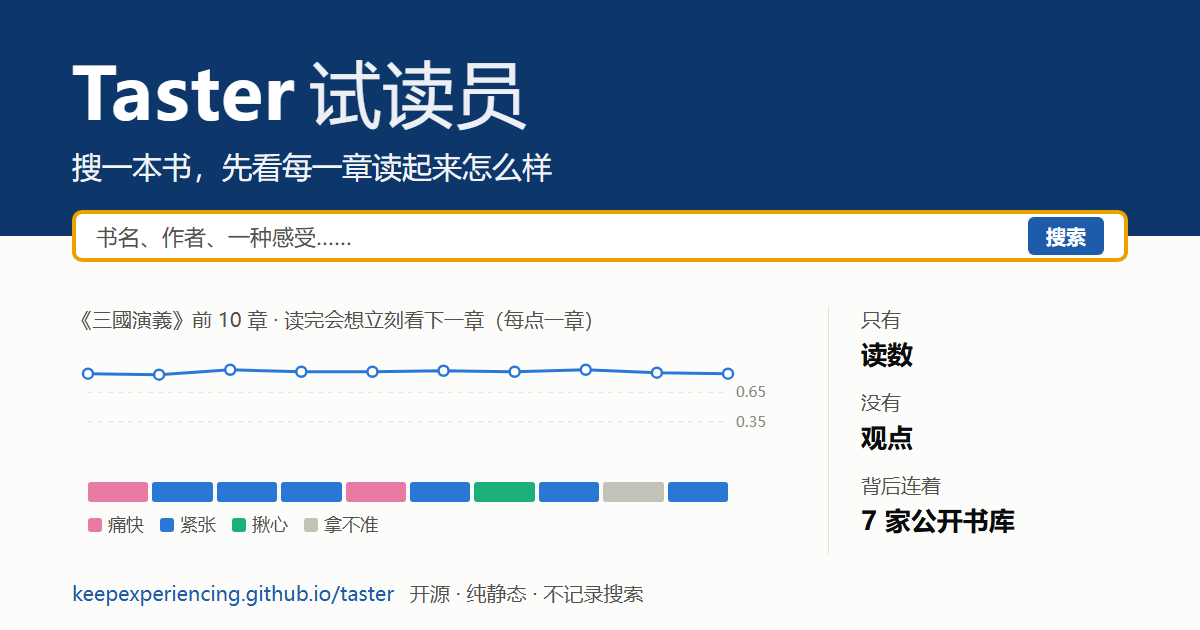
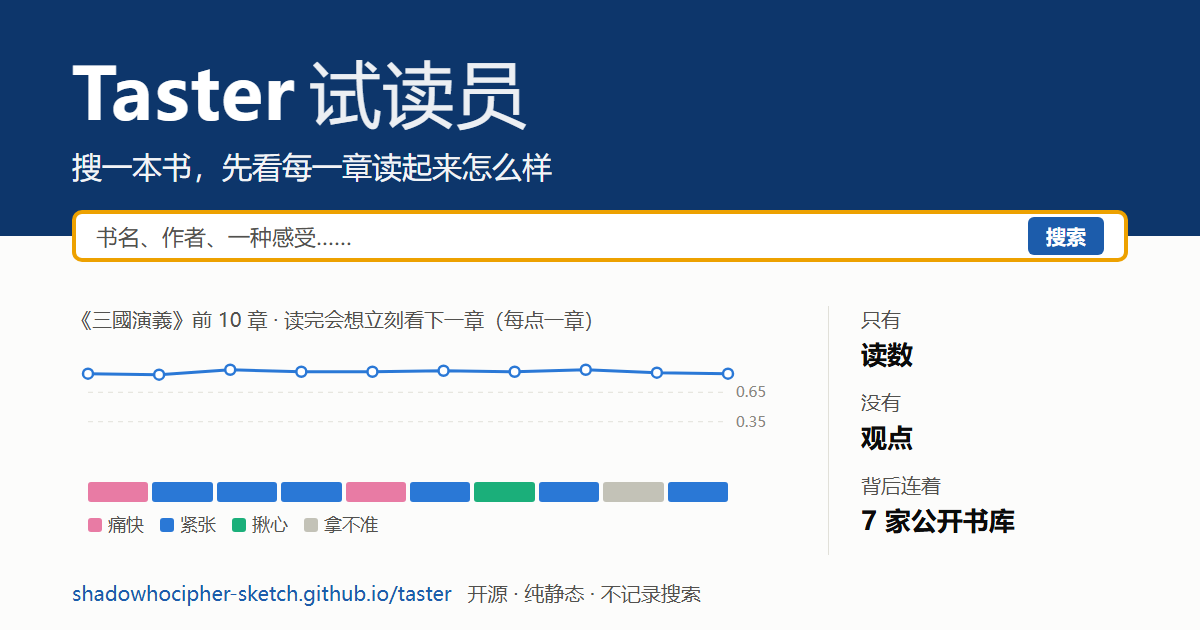
站点地址改到 shadowhocipher-sketch.github.io（github.io 转仓库后不跳转）

Changed region(s): [[0.0617, 0.9048, 0.5858, 0.9651]]

diff --git a/site/index.html b/site/index.html
@@ -9,14 +9,14 @@
 <meta name="referrer" content="strict-origin-when-cross-origin">
 <meta name="description" content="Taster 试读员：一次查多家公开书库；书架上的书每一章都有第三方判断模型的读数。只有读数，没有观点。">
 <title>Taster 试读员</title>
-<link rel="canonical" href="https://keepexperiencing.github.io/taster/">
+<link rel="canonical" href="https://shadowhocipher-sketch.github.io/taster/">
 <!-- 分享卡片：og.png 1200×630、favicon.svg 都放在 site/ 下，同源，CSP 的 img-src 'self' 已放行 -->
 <meta property="og:type" content="website">
 <meta property="og:site_name" content="Taster 试读员">
 <meta property="og:title" content="Taster 试读员">
 <meta property="og:description" content="一次查多家公开书库；书架上的书每一章都有第三方判断模型的读数。只有读数，没有观点。">
-<meta property="og:url" content="https://keepexperiencing.github.io/taster/">
-<meta property="og:image" content="https://keepexperiencing.github.io/taster/og.png">
+<meta property="og:url" content="https://shadowhocipher-sketch.github.io/taster/">
+<meta property="og:image" content="https://shadowhocipher-sketch.github.io/taster/og.png">
 <meta property="og:image:width" content="1200">
 <meta property="og:image:height" content="630">
 <meta property="og:image:alt" content="Taster 试读员">

diff --git a/tools/og/og.html b/tools/og/og.html
@@ -48,7 +48,7 @@
       <div class="k">背后连着</div><div class="v">7 家公开书库</div>
     </div>
   </div>
-  <div class="foot">keepexperiencing.github.io/taster<span>开源 · 纯静态 · 不记录搜索</span></div>
+  <div class="foot">shadowhocipher-sketch.github.io/taster<span>开源 · 纯静态 · 不记录搜索</span></div>
 <script src="../../site/data.js"></script>
 <script>
   // 🔴 别用 top 当变量名：它是 window.top，const top 直接报错、整张图空白（2026-09-25）

diff --git a/tools/request.py b/tools/request.py
@@ -30,7 +30,7 @@ import build as build_mod
 import fetch as fetch_mod
 import taste as taste_mod
 
-SITE = "https://keepexperiencing.github.io/taster/"
+SITE = "https://shadowhocipher-sketch.github.io/taster/"
 REQUEST_LABEL, APPROVE_LABEL = "试读请求", "批准"
 MAX_CALLS = 200            # 单次上限（ARCHITECTURE §5）
 TIME_BUDGET_MIN = 100      # workflow 的 timeout-minutes 是 130：到点先停手，已读的还来得及提交

diff --git a/CLAUDE.md b/CLAUDE.md
@@ -8,5 +8,5 @@
 - **只出数据和翻译，没有观点**。翻译 = `site/app.js` 里 `reading()` 的固定模板。不许加评语、不许替模型写解读——Claude 也不许在对话里替读数下结论（同 `Dev/Ops/network/走查.md` 的规矩）。
 - **版权**：公版书（维基文库、Gutenberg）可链原文；有版权的只放读数，正文不进仓库。拉书只走官方 API，不爬盗版站。判断拿不准时用 `copyright` skill。
 - **花钱**：跑 Jev 前先 `--dry-run` 报调用次数；大批量（整本以上）先问 Sam。
-- **GitHub**：`shadowhocipher-sketch/taster`（09-26 从旧号 Keepexperiencing 转来，旧地址自动跳转），公开，边建边推（Sam 09-25 授权）。TypeSafe MCA 已读：§4.2 输出归我们 → 可公开；§2.3(a) 不做任意文本打分。
+- **GitHub**：`shadowhocipher-sketch/taster`（09-26 从旧号 Keepexperiencing 转来，github.com 旧地址自动跳转，但 github.io 站点地址不跳转，已全部改成新地址），公开，边建边推（Sam 09-25 授权）。TypeSafe MCA 已读：§4.2 输出归我们 → 可公开；§2.3(a) 不做任意文本打分。
 - `.stignore` 忽略 `.git`：仓库历史只在建仓那台机上，跨机靠 GitHub。

diff --git a/README.md b/README.md
@@ -2,7 +2,7 @@
 
 **搜一本书，先看每一章读起来怎么样。只有读数，没有观点。**
 
-→ **在线使用：https://keepexperiencing.github.io/taster/**
+→ **在线使用：https://shadowhocipher-sketch.github.io/taster/**
 
 像订酒店先看评分：你搜一个书名、题材，或者一种感受（「揪心」「好笑」「停不下来」），Taster 同时去查各家公开书库，把结果排成统一的卡片。已经试读过的书，每一章都有一组读数——
 
